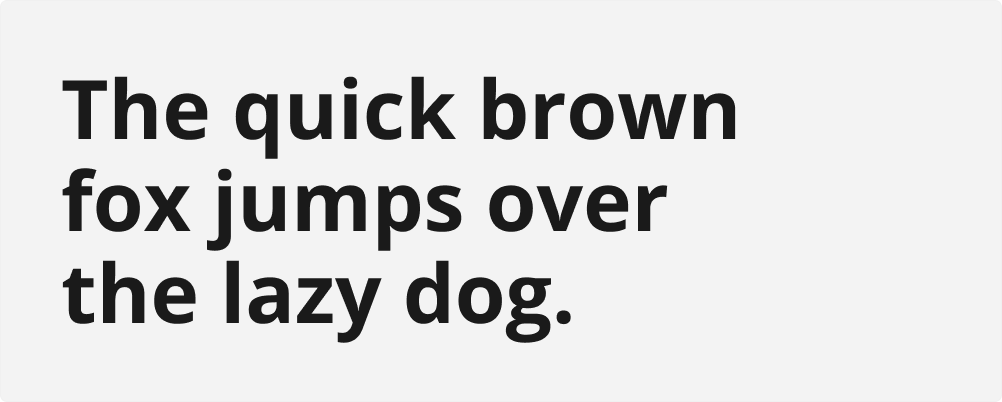
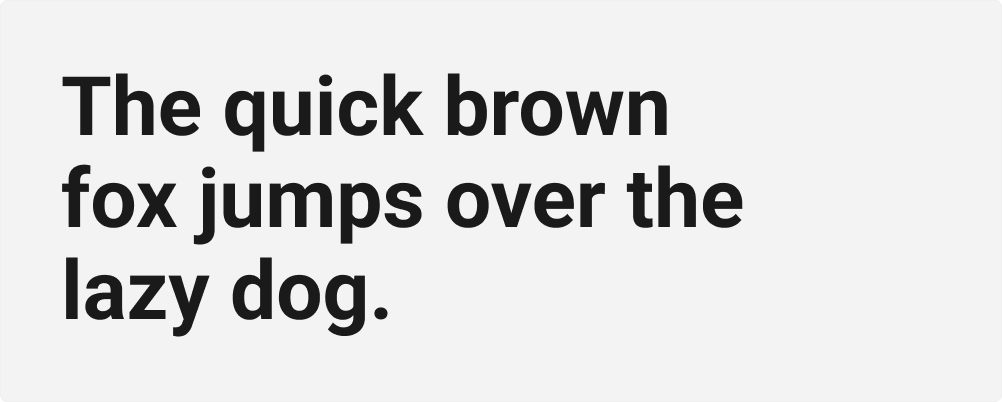
feat: upgrade typography to Roboto Flex

Changed region(s): [[0.0619, 0.3881, 0.7425, 0.8657], [0.0619, 0.1791, 0.7425, 0.4179]]

diff --git a/src/.vuepress/config.js b/src/.vuepress/config.js
@@ -11,7 +11,7 @@ module.exports = {
     ['link', { rel: "shortcut icon", href: "favicon.ico?v=20220630"}],
     ['link', { rel: 'preconnect', href: 'https://fonts.googleapis.com' }],
     ['link', { rel: 'preconnect', href: 'https://fonts.gstatic.com', crossorigin: true }],
-    ['link', { rel: 'stylesheet', href: 'https://fonts.googleapis.com/css2?family=Open+Sans&display=swap' }]
+    ['link', { rel: 'stylesheet', href: 'https://fonts.googleapis.com/css2?family=Roboto+Flex:wght@400;600;700&display=swap' }]
   ],
 
   themeConfig: {
@@ -32,11 +32,11 @@ module.exports = {
       },
       {
         text: 'Manual de Identidade Visual',
-        link: 'https://www.cps.sp.gov.br/wp-content/uploads/sites/1/2020/08/manual_centro_paula_souza_gestao2019_atualizado.pdf'
+        link: 'https://bkpsitecpsnew.blob.core.windows.net/uploadsitecps/sites/1/2023/03/2023_03_27_manual_de_identidade_visual_cps.pdf'
       },
       {
-        text: 'Guia de Identidade para Sites',
-        link: 'https://www.cps.sp.gov.br/wp-content/uploads/sites/1/2021/01/guia-digital-sites-cps-2021.pdf'
+        text: 'Guia de Estilo Site CPS',
+        link: 'https://cps.sp.gov.br/guia-estilo/'
       }
     ],
     sidebar: {

diff --git a/src/guia-visual/tipografia.md b/src/guia-visual/tipografia.md
@@ -1,19 +1,23 @@
 # Tipografia
 
-![Pangrama da Tipografia](~@source/assets/images/typography-pangram.png)
+![Pantograma da Tipografia](~@source/assets/images/typography-pangram.png)
 
 Como a representação visual da linguagem textual, a principal tarefa da tipografia é informar com clareza, ao mesmo tempo em que reforça a identidade. O sistema de tipográfico do **CPS Design System** ajuda a criar estrutura e hierarquia no conteúdo textual, para maximizar a legibilidade nas interfaces.
 
-[Open Sans Variável](https://fonts.google.com/specimen/Open+Sans) é a fonte principal deste _design system_. É uma versão atualizada em 2021 da Open Sans clássica e usa a tecnologia de [fonte variável](https://fonts.google.com/knowledge/introducing_type/introducing_variable_fonts) para fornecer dinamicamente excelente legibilidade em tamanhos muito pequenos, variabilidade para diferentes mídias, e contornos aprimorados para diversos tamanhos de exibição.
+[Roboto Flex](https://fonts.google.com/specimen/Roboto+Flex) é a fonte principal deste _design system_. É uma versão atualizada em 2022 da Roboto clássica e usa a tecnologia de [fonte variável](https://fonts.google.com/knowledge/introducing_type/introducing_variable_fonts) para fornecer dinamicamente excelente legibilidade em tamanhos muito pequenos, variabilidade para diferentes mídias, e contornos aprimorados para diversos tamanhos de exibição.
 
-> **Open Sans** é um tipo de letra humanista sem serifa, desenhado por Steve Matteson, Diretor de Tipos da Ascender Corp. Esta versão contém o conjunto completo de 897 caracteres, que inclui os conjuntos de caracteres padrão ISO Latin 1, Latin CE, Grego e Cirílico. Open Sans foi projetado com uma tensão vertical, formas abertas e uma aparência neutra, mas amigável. Foi otimizado para interfaces de impressão, Web e dispositivos móveis, e possui excelentes características de legibilidade em suas letras.
+> **Roboto** é a fonte mais popular do [Google Fonts](https://fonts.google.com/). Foi lançado pela primeira vez em 2011, mas foi atualizado ao longo dos anos para melhorar seu suporte a idiomas e qualidades estéticas. A superfamília Roboto cresceu desde o _sans-serif_ inicial e se condensou para abranger Roboto Slab, Roboto Mono e, mais recentemente, Roboto Serif. Agora há outro Roboto se juntando à grade: Apresentando o **Roboto Flex**, uma grande atualização para o Roboto e o maior projeto do Google Fonts até o momento. Com uma enorme variedade de pesos e larguras em tamanhos ópticos, além de recursos adicionais para ajuste fino, o Roboto Flex foi projetado pelo Font Bureau para ser super-escalável, adaptável, personalizável e otimizável.
 
 ## Questões de padronização
 
-A definição da **Open Sans** como padrão deste _design system_ partiu não somente por suas características positivas citadas acima, mas também a partir de profunda reflexão sobre o teor dos dois principais materiais previamente existentes no CPS em relação a padronizações visuais:
+A definição da **Roboto Flex** como padrão deste _design system_ partiu não somente por suas características positivas citadas acima, mas também a partir de profunda reflexão sobre o teor dos dois principais materiais previamente existentes no CPS em relação a padronizações visuais:
 
-- O [Manual de Identidade Visual](https://www.cps.sp.gov.br/wp-content/uploads/sites/1/2020/08/manual_centro_paula_souza_gestao2019_atualizado.pdf) destaca a relevante importância de utilização de uma fonte padronizada para unidade visual dos materiais, o que faz todo sentido. Em seguida, especifica a fonte [Verdana](https://en.wikipedia.org/wiki/Verdana) como a fonte padrão, motivado por ser <cite>"encontrada pela maioria dos sistemas operacionais dos computadores"</cite>. Esta motivação não é relevante para aplicações Web, uma vez que a utilização exclusiva de System Fonts (fontes disponíveis nativamente no sistema operacional do usuário), ao invés de [Web Fonts](https://fonts.google.com/knowledge/using_type/using_web_fonts) (carregadas a partir de um servidor Web), pode resultar em disparidades indesejadas na apresentação do conteúdo, entre diferentes dispositivos, plataformas e usuários. Ademais, Verdana é uma fonte antiga, não tendo sido pensada para diferentes dispositivos e resoluções, além de não ter sofrido atualizações relevantes ao longo dos anos, não tendo suporte à variabilidade disponível em fontes modernas.
-- O [Guia de Identidade para Sites](https://www.cps.sp.gov.br/wp-content/uploads/sites/1/2021/01/guia-digital-sites-cps-2021.pdf), embora não cite as motivações por trás de suas escolhas, ignora completamente a recomendação de uso da fonte Verdana, adotando três Web Fonts diferentes: [Roboto Slab](https://fonts.google.com/specimen/Roboto+Slab) (recomendada para títulos de seções), [Roboto Condensed](https://fonts.google.com/specimen/Roboto+Condensed) (recomendada somente para items do menu principal) e a própria **Open Sans** (recomendada para uso geral nos conteúdos). De fato, a escolha pela **Open Sans** foi fortemente inspirada por este guia, pois apesar de existirem diversas outras Web Fonts modernas, com variabilidade e boa legibilidade, adotar a mesma fonte utilizada nos portais públicos do CPS simplesmente pareceu mais sensato. Quanto ao uso de fontes diferentes para elementos específicos do _layout_, embora possam haver [alguns bons motivos](https://fonts.google.com/knowledge/choosing_type/pairing_typefaces) para isso em materiais fortemente baseados em texto (como publicações em _blog_), se manter em uma única fonte pode ter vantagens estéticas (ainda mais com o uso de fonte variável que permite explorar diferentes pesos, espessuras e estilos ópticos na mesma fonte) como também vantagens de desempenho (carregar uma Web Font significa fazer um _download_ obrigatório de um conjunto de _assets_ potencialmente inexistente no navegador do usuário, carregar outras eleva desnecessariamente o tempo desprendido neste processo antes dos _layouts_ poderem ser apresentados ao usuário).
+- O [Manual de Identidade Visual](https://bkpsitecpsnew.blob.core.windows.net/uploadsitecps/sites/1/2023/03/2023_03_27_manual_de_identidade_visual_cps.pdf) destaca a relevante importância de utilização de uma fonte padronizada para unidade visual dos materiais, o que faz todo sentido. Em seguida, especifica a fonte [Verdana](https://en.wikipedia.org/wiki/Verdana) como a fonte padrão, motivado por ser <cite>"encontrada pela maioria dos sistemas operacionais dos computadores"</cite>. Esta motivação não é relevante para aplicações Web, uma vez que a utilização exclusiva de System Fonts (fontes disponíveis nativamente no sistema operacional do usuário), ao invés de [Web Fonts](https://fonts.google.com/knowledge/using_type/using_web_fonts) (carregadas a partir de um servidor Web), pode resultar em disparidades indesejadas na apresentação do conteúdo, entre diferentes dispositivos, plataformas e usuários. Ademais, Verdana é uma fonte antiga, não tendo sido pensada para diferentes dispositivos e resoluções, além de não ter sofrido atualizações relevantes ao longo dos anos, não tendo suporte à variabilidade disponível em fontes modernas.
+- O [Guia de Estilo Site CPS](https://cps.sp.gov.br/guia-estilo/), embora não cite as motivações por trás de suas escolhas, não recomenda Verdana, mas sim as Web Fonts: [Roboto Slab](https://fonts.google.com/specimen/Roboto+Slab) (recomendada para títulos de seções) e a própria **Roboto Flex** (recomendada para uso geral nos conteúdos). De fato, a escolha pela **Roboto Flex** foi fortemente inspirada por este guia, pois apesar de existirem diversas outras Web Fonts modernas, com variabilidade e boa legibilidade, adotar a mesma fonte utilizada nos portais públicos do CPS simplesmente pareceu mais sensato. Quanto ao uso de fontes diferentes para elementos específicos do _layout_, embora possam haver [alguns bons motivos](https://fonts.google.com/knowledge/choosing_type/pairing_typefaces) para isso em materiais fortemente baseados em texto (como publicações em _blog_), se manter em uma única fonte pode ter vantagens estéticas (ainda mais com o uso de fonte variável que permite explorar diferentes pesos, espessuras e estilos ópticos na mesma fonte) como também vantagens de desempenho (carregar uma Web Font significa fazer um _download_ obrigatório de um conjunto de _assets_ potencialmente inexistente no navegador do usuário, carregar outras eleva desnecessariamente o tempo desprendido neste processo antes dos _layouts_ poderem ser apresentados ao usuário), portanto recomendar somente **Roboto Flex** nos pareceu mais pertinente para um conteúdo focado em sistemas internos, onde a tipografia é normalmente parte de componentes ao invés de longos blocos de texto.
+
+::: tip Curiosidade
+Anteriormente, CPS Design System recomendou Open Sans como sua fonte padrão, em virtude de ser a recomendação do antigo Guia de Identidade Digital para Sites de 2021, agora descontinuado. Com a atualização para alinhamento ao Guia de Estilo Site CPS, a fonte **Roboto Flex** se tornou a padrão.
+:::
 
 ## Pilha tipográfica
 
@@ -22,10 +26,10 @@ Embora a utilização de Web Fonts apresente uma vantagem de padronização para
 Com isto em mente, o **CPS Design System** utiliza e recomenda a seguinte pilha:
 
 ``` css
-font-family: "Open Sans", "Segoe UI", Verdana, Sans-serif;
+font-family: "Roboto Flex", "Segoe UI", Verdana, Sans-serif;
 ```
 
-A fonte [Segoe UI](https://en.wikipedia.org/wiki/Segoe) é uma família de fonte utilizada em numerosas aplicações Microsoft e pré-instalada em muitas versões do Windows, ou instalada junto com o pacote Office em outros sistemas operacionais, além de apresentar visualmente muitas características similares à **Open Sans**. Caso eventualmente também não possa ser utilizada, Verdana entra em ação por potencialmente estar presenta de forma nativa em muitos computadores, reforçando-se que isto só ocorrerá caso as fontes anteriores não tenham podido ser carregadas por algum motivo raro.
+A fonte [Segoe UI](https://en.wikipedia.org/wiki/Segoe) é uma família de fonte utilizada em numerosas aplicações Microsoft e pré-instalada em muitas versões do Windows, ou instalada junto com o pacote Office em outros sistemas operacionais, além de apresentar visualmente muitas características similares à **Roboto Flex**. Caso eventualmente também não possa ser utilizada, Verdana entra em ação por potencialmente estar presenta de forma nativa em muitos computadores, reforçando-se que isto só ocorrerá caso as fontes anteriores não tenham podido ser carregadas por algum motivo raro.
 
 ## Escala de tamanhos e estilos
 

diff --git a/src/guia-visual/icones.md b/src/guia-visual/icones.md
@@ -22,7 +22,7 @@ No contexto da Web, também são usados principalmente para reconhecer e iniciar
 Para máxima compatibilidade em diferentes dispositivos e plataformas, aplicações Web modernas devem conter vários _assets_ de ícones, em formatos e tamanhos variados, bem como arquivos de manifesto e importações corretamente realizadas nas páginas Web, para que sejam apresentados conforme esperado em cada cenário. Uma ferramenta como [Real Favicon Generator](https://realfavicongenerator.net/) pode ser de grande auxílio.
 :::
 
-Em algumas situações, ícones de aplicação são simplesmente derivações de marcas já existentes, como é o caso do _favicon_ utilizado nos portais do CPS, diretamente derivado de seu logotipo descrito no [Manual de Identidade Visual](https://www.cps.sp.gov.br/wp-content/uploads/sites/1/2020/08/manual_centro_paula_souza_gestao2019_atualizado.pdf).
+Em algumas situações, ícones de aplicação são simplesmente derivações de marcas já existentes, como é o caso do _favicon_ utilizado nos portais do CPS, diretamente derivado de seu logotipo descrito no [Manual de Identidade Visual](https://bkpsitecpsnew.blob.core.windows.net/uploadsitecps/sites/1/2023/03/2023_03_27_manual_de_identidade_visual_cps.pdf).
 
 Para todos os outros casos, incluindo cada sistema interno que aderir a este _design system_, recomenda-se fortemente que um ícone de aplicação seja construído por um _designer_, seguindo boas práticas de elaboração de ícones de aplicações (ou ao menos seguindo-se bons materiais sobre o assunto, como [How to Design a Great App Icon: What You Need to Know](https://www.shopify.com/partners/blog/app-icon) e [5 Tips for Designing the Perfect Mobile App Icon](https://uplandsoftware.com/localytics/resources/blog/tips-for-designing-the-perfect-mobile-app-icon/)).
 
@@ -60,4 +60,4 @@ Conforme já explanado, este _design system_ recomenda fortemente o uso da bibli
 Utilizar ícones específicos em formato `SVG` de outras bibliotecas não é um problema em si, desde que respeitado o estilo visual. Mas isto não vale para o caso de importar bibliotecas de ícones inteiras (mesmo que em versão Web Font), pois o carregamento de diversas bibliotecas de ícones ao mesmo tempo seria um grave equívoco para o desempenho de carregamento da aplicação, para no final utilizar apenas alguns poucos ícones.
 :::
 
-Vale uma menção honrosa à a famosa biblioteca de ícones [Font Awesome](https://fontawesome.com/), recomendada pelo [Guia de Identidade para Sites](https://www.cps.sp.gov.br/wp-content/uploads/sites/1/2021/01/guia-digital-sites-cps-2021.pdf). Embora tenha um visual agradável, similar ao que prega este _design system_, e seja muito utilizada em projetos pela Web, é uma biblioteca mais limitada, com pouco mais de 2 mil ícones gratuitos (e um foco grande em vender os outros ícones com a versão Pro). Além disso, mesmo a versão gratuita não tem uma licença tão permissiva quanto a biblioteca aqui recomendada.
+Vale uma menção honrosa à a famosa biblioteca de ícones [Font Awesome](https://fontawesome.com/), recomendada pelo [Guia de Estilo Site CPS](https://cps.sp.gov.br/guia-estilo/). Embora tenha um visual agradável, similar ao que prega este _design system_, e seja muito utilizada em projetos pela Web, é uma biblioteca mais limitada, com pouco mais de 2 mil ícones gratuitos (e um foco grande em vender os outros ícones com a versão Pro). Além disso, mesmo a versão gratuita não tem uma licença tão permissiva quanto a biblioteca aqui recomendada.

diff --git a/src/guia-visual/cores.md b/src/guia-visual/cores.md
@@ -54,7 +54,7 @@ Embora um tanto quanto evidente, por ser totalmente baseada em opacidades, resta
 
 ## Paleta de Cor de Marca
 
-Conforme o [Manual de Identidade Visual](https://www.cps.sp.gov.br/wp-content/uploads/sites/1/2020/08/manual_centro_paula_souza_gestao2019_atualizado.pdf) destaca, a cor de marca do CPS é o vermelho (`#B20000`), servindo tal cor como base para a paleta de cor de marca deste _design system_:
+Conforme o [Manual de Identidade Visual](https://bkpsitecpsnew.blob.core.windows.net/uploadsitecps/sites/1/2023/03/2023_03_27_manual_de_identidade_visual_cps.pdf) destaca, a cor de marca do CPS é o vermelho (`#B20000`), servindo tal cor como base para a paleta de cor de marca deste _design system_:
 
 ![Paleta de Cor de Marca](~@source/assets/images/colors-palette-brand.png)
 
@@ -74,7 +74,7 @@ Por fim, destaca-se que a paleta de cor de marca não sofre interferência dos [
 
 ## Paleta de Cor de Ênfase
 
-Uma técnica comum de obtenção de cor de ênfase, quando a cor de marca não é pertinente para ser utilizada de forma persistente na interface, é buscar a tonalidade totalmente inversa à cor de marca. Conforme o [Guia de Identidade para Sites](https://www.cps.sp.gov.br/wp-content/uploads/sites/1/2021/01/guia-digital-sites-cps-2021.pdf) destaca, a cor inversa ao vermelho da marca do CPS é um tom turquesa. Na verdade, a cor inversa imediata é um tom de turquesa muito claro e brilhante e, portante, este _design system_ optou por seguir o ajuste de intensidade previamente realizado pela equipe da Assessoria de Comunicação no guia supracitado, adotando o tom turquesa mais escuro (`#005C6E`) como a cor base da paleta de cor de ênfase.
+Uma técnica comum de obtenção de cor de ênfase, quando a cor de marca não é pertinente para ser utilizada de forma persistente na interface, é buscar a tonalidade totalmente inversa à cor de marca. Conforme o [Guia de Estilo Site CPS](https://cps.sp.gov.br/guia-estilo/) destaca, a cor inversa ao vermelho da marca do CPS é um tom turquesa. Na verdade, a cor inversa imediata é um tom de turquesa muito claro e brilhante e, portante, este _design system_ optou por seguir o ajuste de intensidade previamente realizado pela equipe da Assessoria de Comunicação no guia supracitado, adotando o tom turquesa mais escuro (`#005C6E`) como a cor base da paleta de cor de ênfase.
 
 ![Paleta de Cor de Ênfase](~@source/assets/images/colors-palette-accent.png)
 
